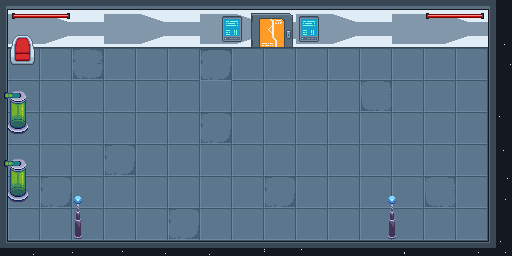
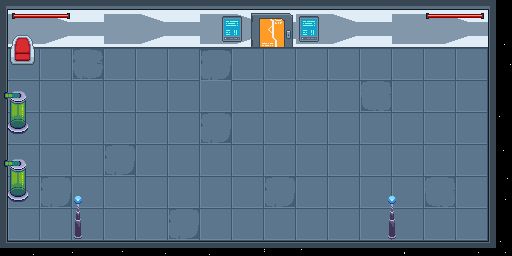
map2 boundary checked

Changed region(s): [[0.0, 0.0, 1.0, 1.0]]

diff --git a/PARRY PING PING/Source/player.cpp b/PARRY PING PING/Source/player.cpp
@@ -1287,6 +1287,21 @@ void Update_Player()
 			if (player.pos.y > bottom_bound) player.pos.y = bottom_bound;
 		}
 
+		else if (currentState == GS_LEVEL2) // Only apply boundaries in Level 2
+		{
+			f32 map_width = 2972.0f, map_height = 1136.0f;
+			f32 left_bound = -map_width / 2;
+			f32 right_bound = map_width / 2 - 80;
+			f32 top_bound = -map_height / 2;
+			f32 bottom_bound = 500.0f;
+
+			// Restrict movement within the map boundaries
+			if (player.pos.x < left_bound) player.pos.x = left_bound;
+			if (player.pos.x > right_bound) player.pos.x = right_bound;
+			if (player.pos.y < top_bound) player.pos.y = top_bound;
+			if (player.pos.y > bottom_bound) player.pos.y = bottom_bound;
+		}
+
 
 
 		
